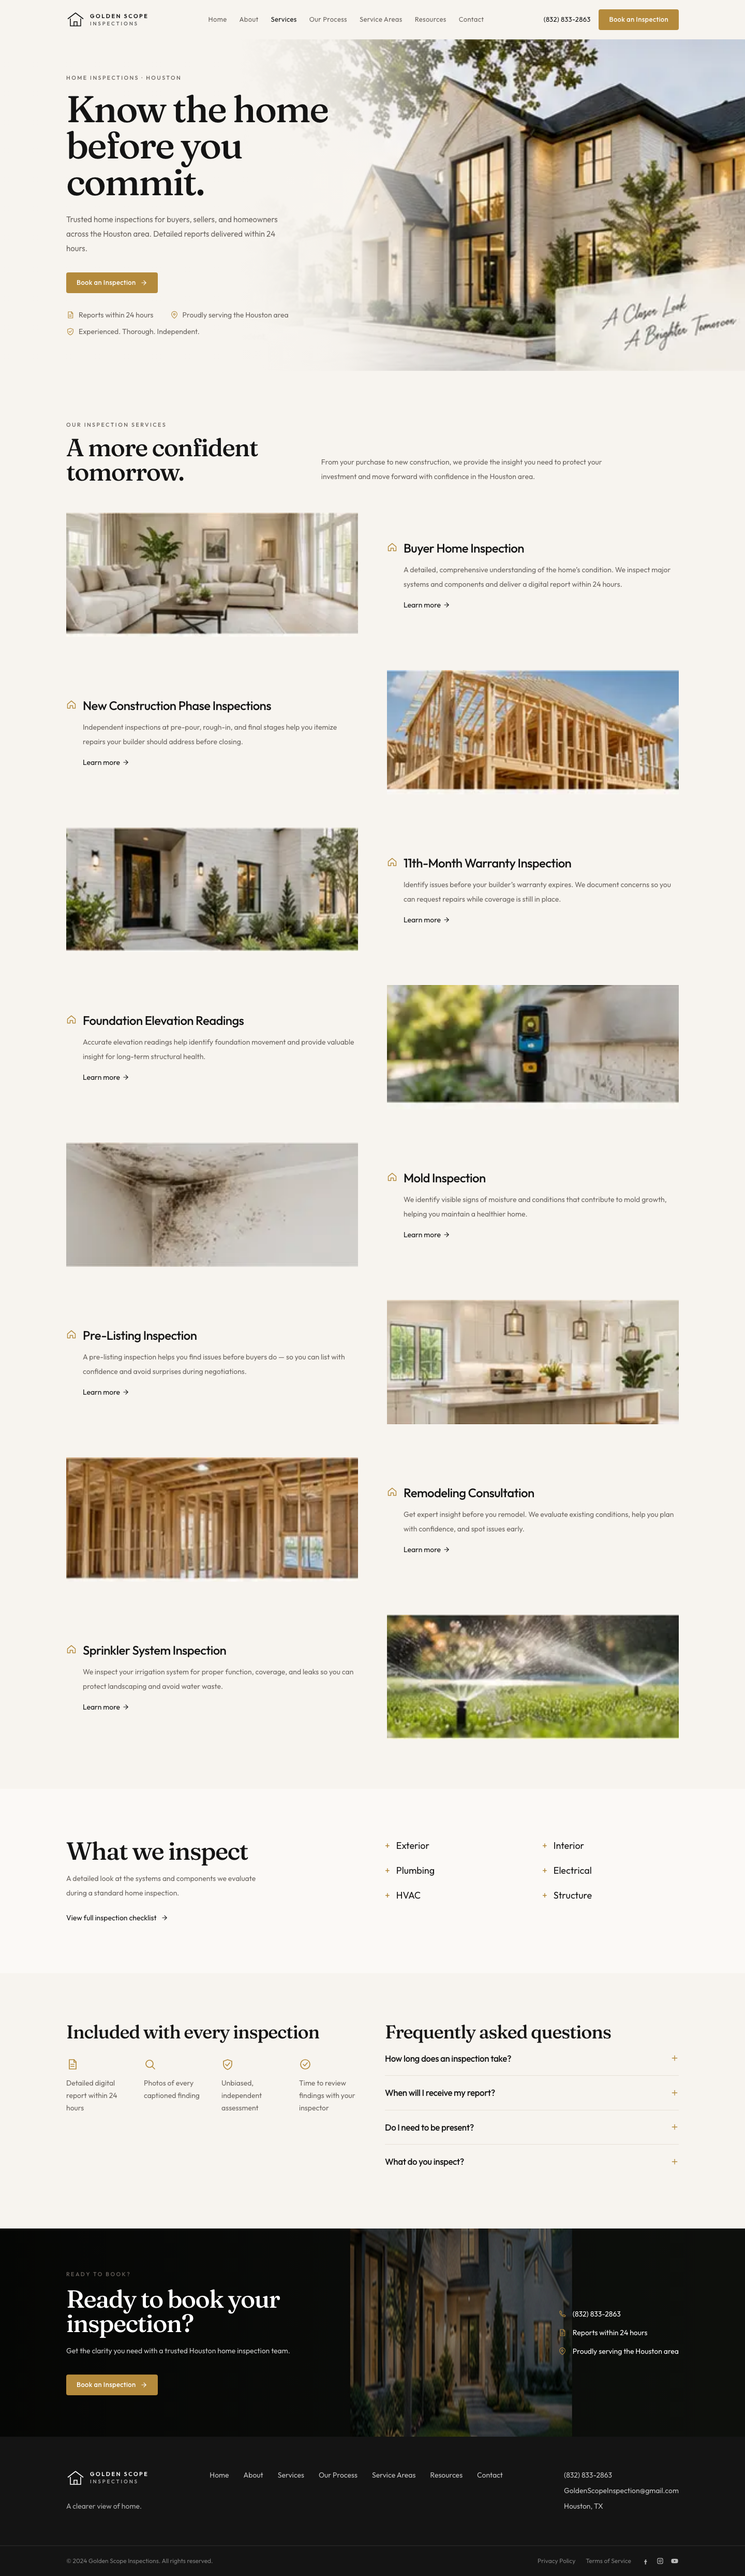
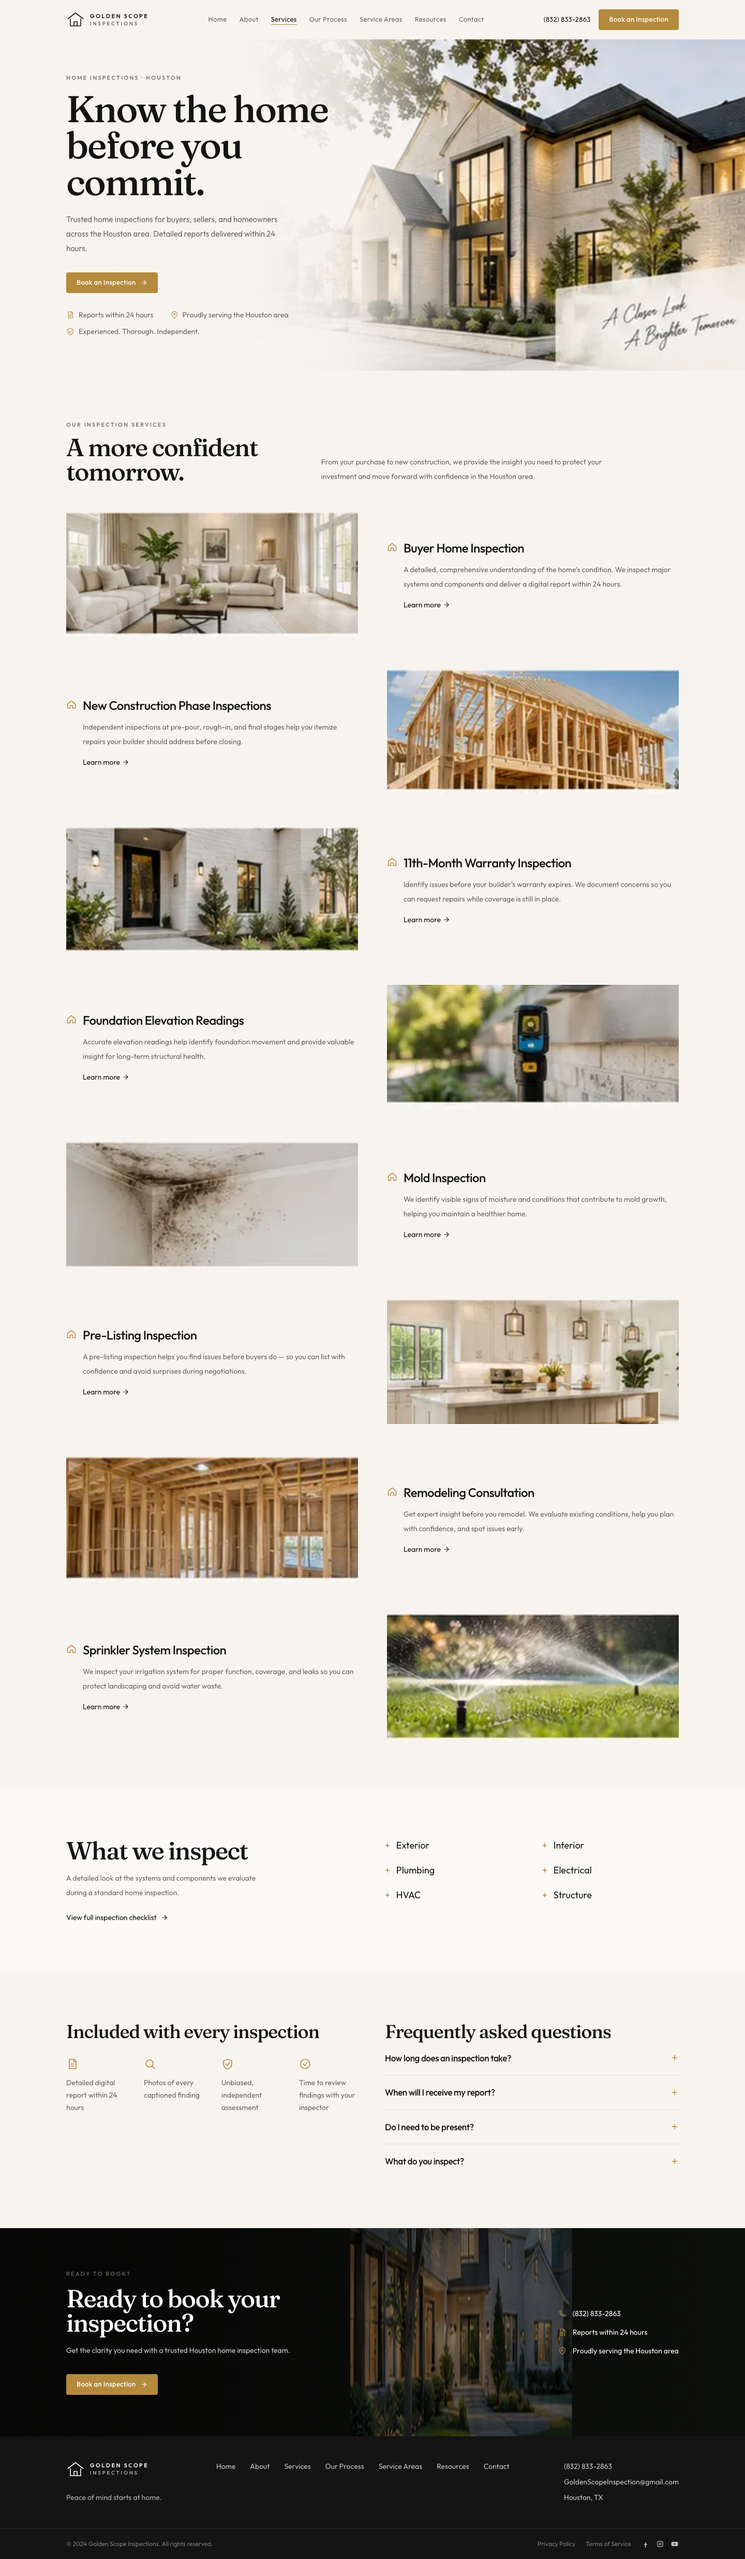
Tighten mockup chrome after a second independent PASS.
Add active nav underline, per-page header CTA order, slimmer footers, Process dining overlay type, Contact map caption under the highway plate, and Vi’s quote card on the tablet plate. Recapture 1440px stills; independent QA still reports PASS with no majors.

diff --git a/src/components/layout/Header.tsx b/src/components/layout/Header.tsx
@@ -12,24 +12,37 @@ import { navLinks, site } from "@/lib/site";
 export function Header() {
   const [open, setOpen] = useState(false);
   const pathname = usePathname();
+  const bookFirst = pathname.startsWith("/contact") || pathname.includes("jason-dixon");
+  const showPhone = !pathname.includes("vi-tran");
 
   return (
     <header className="relative z-50 bg-cream">
-      <Container className="flex h-[76px] items-center justify-between gap-6">
-        <Logo compact />
+      <Container className="flex min-h-[76px] items-center justify-between gap-6 py-3">
+        <Logo
+          compact
+          tagline={
+            pathname.startsWith("/contact") || pathname.includes("vi-tran")
+              ? "A clearer perspective for a brighter tomorrow"
+              : undefined
+          }
+        />
 
         <nav className="hidden items-center gap-4 xl:gap-6 min-[1100px]:flex">
           {navLinks.map((link) => {
             const active =
               link.href === "/"
                 ? pathname === "/"
-                : pathname.startsWith(link.href);
+                : link.href === "/about"
+                  ? pathname.startsWith("/about") || pathname.startsWith("/inspectors")
+                  : pathname.startsWith(link.href);
             return (
               <Link
                 key={link.href}
                 href={link.href}
-                className={`text-[13px] tracking-wide transition-colors ${
-                  active ? "text-ink" : "text-muted hover:text-ink"
+                className={`border-b text-[13px] tracking-wide transition-colors ${
+                  active
+                    ? "border-gold text-ink"
+                    : "border-transparent text-muted hover:text-ink"
                 }`}
               >
                 {link.label}
@@ -39,15 +52,29 @@ export function Header() {
         </nav>
 
         <div className="hidden items-center gap-4 min-[1100px]:flex">
-          <a
-            href={site.phoneHref}
-            className="hidden text-[13px] tracking-wide text-ink xl:inline"
-          >
-            {site.phone}
-          </a>
-          <Button href={site.bookingUrl} external className="px-5 py-2.5">
-            Book an Inspection
-          </Button>
+          {bookFirst ? (
+            <>
+              <Button href={site.bookingUrl} external className="px-5 py-2.5">
+                Book an Inspection
+              </Button>
+              {showPhone ? (
+                <a href={site.phoneHref} className="hidden text-[13px] tracking-wide text-ink xl:inline">
+                  {site.phone}
+                </a>
+              ) : null}
+            </>
+          ) : (
+            <>
+              {showPhone ? (
+                <a href={site.phoneHref} className="hidden text-[13px] tracking-wide text-ink xl:inline">
+                  {site.phone}
+                </a>
+              ) : null}
+              <Button href={site.bookingUrl} external className="px-5 py-2.5">
+                Book an Inspection
+              </Button>
+            </>
+          )}
         </div>
 
         <button

diff --git a/src/components/layout/Footer.tsx b/src/components/layout/Footer.tsx
@@ -10,9 +10,11 @@ export function Footer() {
   const pathname = usePathname();
   const isProcess = pathname.startsWith("/process");
   const isContact = pathname.startsWith("/contact");
+  const isServices = pathname.startsWith("/services");
   const isVi = pathname.includes("vi-tran");
   const isJason = pathname.includes("jason-dixon");
   const isRikki = pathname.includes("rikki-neel");
+  const isTony = pathname.includes("tony-ngo");
 
   const tagline = isProcess
     ? "Inspect. Inform. Empower."
@@ -22,7 +24,11 @@ export function Footer() {
         ? "Higher standards. Healthier homes. Brighter tomorrows."
         : isVi
           ? "Trusted home inspections for a stronger Houston."
-          : site.tagline;
+          : isServices
+            ? "Peace of mind starts at home."
+            : isTony
+              ? "Proudly serving the Greater Houston area."
+              : site.tagline;
 
   const script = isProcess
     ? "A Clearer Tomorrow Starts at Home."
@@ -47,7 +53,7 @@ export function Footer() {
         </div>
       ) : null}
 
-      <Container className="relative flex flex-col gap-10 py-14 sm:py-16 lg:flex-row lg:items-start lg:justify-between">
+      <Container className="relative flex flex-col gap-8 py-10 sm:py-12 lg:flex-row lg:items-start lg:justify-between">
         <div className="max-w-xs">
           <Logo inverted />
           <p className="mt-5 text-sm leading-6 text-white/65">{tagline}</p>

diff --git a/src/components/inspectors/InspectorPage.tsx b/src/components/inspectors/InspectorPage.tsx
@@ -406,11 +406,9 @@ function ViLayout({ inspector }: { inspector: Inspector }) {
             <h2 className="headline mt-3 text-4xl sm:text-5xl">Experience that puts people first.</h2>
             <p className="mt-5 text-sm leading-7 text-muted">{inspector.bio}</p>
           </div>
-          <div className="grid gap-6">
-            <div className="relative aspect-[4/3] overflow-hidden">
-              <Image src={inspector.actionImage} alt="" fill className="object-cover" sizes="50vw" />
-            </div>
-            <blockquote className="border border-line bg-white p-6">
+          <div className="relative aspect-[4/3] overflow-hidden">
+            <Image src={inspector.actionImage} alt="" fill className="object-cover" sizes="50vw" />
+            <blockquote className="absolute bottom-5 left-5 right-5 border border-line bg-white/95 p-5">
               “{inspector.quote}”
               <footer className="mt-3 text-xs tracking-[0.18em] text-muted uppercase">
                 — {inspector.name}

diff --git a/src/components/brand/Logo.tsx b/src/components/brand/Logo.tsx
@@ -3,9 +3,10 @@ import Link from "next/link";
 type LogoProps = {
   inverted?: boolean;
   compact?: boolean;
+  tagline?: string;
 };
 
-export function Logo({ inverted = false, compact = false }: LogoProps) {
+export function Logo({ inverted = false, compact = false, tagline }: LogoProps) {
   const color = inverted ? "text-white" : "text-ink";
 
   return (
@@ -36,6 +37,11 @@ export function Logo({ inverted = false, compact = false }: LogoProps) {
         <span className="mt-1 block text-[10px] font-medium leading-none tracking-[0.28em] uppercase opacity-70">
           Inspections
         </span>
+        {tagline ? (
+          <span className="mt-2 block max-w-[170px] text-[9px] leading-3 tracking-[0.16em] uppercase opacity-55">
+            {tagline}
+          </span>
+        ) : null}
       </span>
     </Link>
   );

diff --git a/src/app/process/page.tsx b/src/app/process/page.tsx
@@ -115,8 +115,11 @@ export default function ProcessPage() {
             <img
               src="/images/mockup/process-dining.jpg"
               alt="Luxury kitchen and dining room ready for inspection day"
-              className="absolute inset-0 h-full w-full object-cover object-center"
+              className="absolute inset-0 h-full w-full object-cover object-left"
             />
+            <p className="absolute left-6 top-10 hidden max-w-[140px] text-[11px] leading-5 tracking-[0.18em] text-ink uppercase lg:block">
+              A more confident tomorrow begins with a clearer picture.
+            </p>
           </div>
           <div className="flex flex-col justify-center px-5 py-14 sm:px-10">
             <p className="eyebrow">What to expect</p>

diff --git a/src/app/contact/page.tsx b/src/app/contact/page.tsx
@@ -70,10 +70,10 @@ export default function ContactPage() {
             <h2 className="headline text-3xl sm:text-4xl">
               Proudly serving the Greater Houston area
             </h2>
-            <HoustonMap
-              className="mt-6 min-h-[360px]"
-              caption="Service Area — We inspect homes throughout Houston and surrounding cities."
-            />
+            <HoustonMap className="mt-6 min-h-[360px]" />
+            <p className="mt-4 text-sm text-muted">
+              Service Area — We inspect homes throughout Houston and surrounding cities.
+            </p>
           </div>
         </Container>
       </Section>
